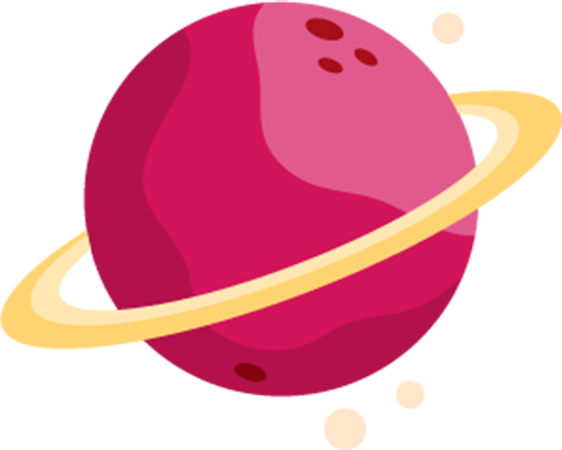
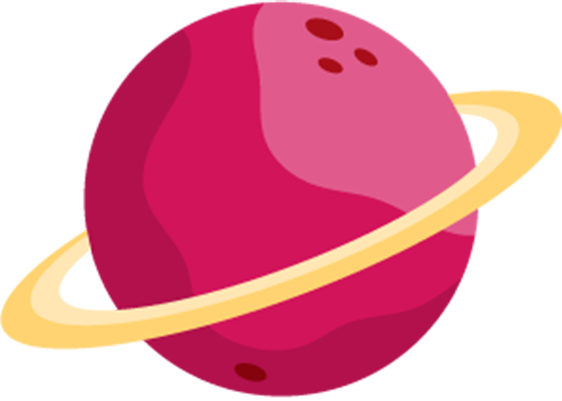
아이케이 행성에 위성 추가 완료. 위성 이미지는 이후에 교체 가능성 있음.

diff --git a/src/App.css b/src/App.css
@@ -206,27 +206,23 @@ ul,ol,li {list-style: none; padding: 0; margin: 0;}
 	display: grid; grid-template-columns: repeat(1, 1fr);
 	gap: 30rem;
 }
-#gr_body .sec2 .planit {position: relative;}
+#gr_body .sec2 .planit {position: relative; padding-bottom: 17rem;}
 #gr_body .sec2 .planit .img {
-	padding-bottom: 17rem;
+	position: relative; width: fit-content;
+}
+#gr_body .sec2 .planit .img img {
 	animation: planitMove 0.7s infinite alternate;
 	position: relative; top: 0;
 }
-#gr_body .sec2 #education .img {margin: 0 0 0 21rem;}
-#gr_body .sec2 #career .img {margin: 0 21rem 0 0;}
-#gr_body .sec2 #career .img img {display: block; margin-left: auto;}
+
 
 @keyframes planitMove {
 	to {top: 10px;}
 }
-
-/* #gr_body .sec2 .planit .img img {transform: scale(1);} */
 #gr_body .sec2 .planit .text_box {
 	max-width: 700px; position: absolute;
 	top: 60%; right: 0;
 }
-
-#gr_body .sec2 #career .text_box {right: unset; left: 50px;}
 
 #gr_body .sec2 .planit .text_box .ComtBox {text-align: left;}
 #gr_body .sec2 .planit .text_box .label {margin-bottom: 2rem;}
@@ -239,6 +235,27 @@ ul,ol,li {list-style: none; padding: 0; margin: 0;}
 	padding: 0.5rem; margin-right: 1rem; color: #fff;
 	font-weight: bold; font-size: 1.3rem;
 }
+
+
+/* education */
+#gr_body .sec2 #education .planit .img {left: 20rem;}
+#gr_body .sec2 #education .planit .img img {width: 38rem;}
+
+/* career */
+#gr_body .sec2 #career .planit .img {left: 60rem;}
+#gr_body .sec2 #career .planit .img img {width: 56.2rem;}
+#gr_body .sec2 .planit .img > a {
+	display: block; width: max(25px, 5rem); height: max(25px, 5rem);
+	border-radius: 50%; position: absolute;
+	background-size: cover;
+	background-repeat: no-repeat;
+	background-position: center;
+}
+#gr_body .sec2 #career .planit .img > #moon-1 {top: 4rem; left: 4rem;}
+#gr_body .sec2 #career .planit .img > #moon-2 {bottom: 5rem; right: 3rem;}
+#gr_body .sec2 #career .planit .img > #moon-3 {top: 0rem; right: 10rem;}
+#gr_body .sec2 #career .text_box {right: unset; left: 8rem;}
+
 
 
 

diff --git a/src/pages/greeting.jsx b/src/pages/greeting.jsx
@@ -62,9 +62,9 @@ function Greeting() {
                         <div className='text_box'>
                            <div className="label">
                               <h3 className='DGMo'>그린컴퓨터아카데미</h3>
-                              <span class="">수료</span>
-                              <span class="">2020.10 ~ 2021.02</span>
-                              <span class="">디지털디자인(웹디자이너, 웹퍼블리셔) 양성과정</span>
+                              <span className="">수료</span>
+                              <span className="">2020.10 ~ 2021.02</span>
+                              <span className="">디지털디자인(웹디자이너, 웹퍼블리셔) 양성과정</span>
                            </div>
 
                            <div className="ComtBox Comt__ty1">
@@ -87,9 +87,9 @@ function Greeting() {
                         <div className='text_box'>
                            <div className="label">
                               <h3 className='DGMo'>아이케이 웹에이전시</h3>
-                              <span class="">인수합병으로 인한 사직</span>
-                              <span class="">2022.03 ~ 2024.07</span>
-                              <span class="">퍼블리싱</span>
+                              <span className="">인수합병으로 인한 사직</span>
+                              <span className="">2022.03 ~ 2024.07</span>
+                              <span className="">퍼블리싱</span>
                            </div>
 
                            <div className="ComtBox Comt__ty1">

diff --git a/src/js/gret.jsx b/src/js/gret.jsx
@@ -3,9 +3,37 @@ import { useEffect, useLayoutEffect  } from "react";
 import { gsap } from "gsap";
 import { ScrollTrigger } from "gsap/ScrollTrigger";
 import { ScrollToPlugin } from "gsap/ScrollToPlugin";
+import { useSelector } from 'react-redux'
 
 
 export function useComtBox() {
+
+   let moonData = useSelector((state)=> state.moonData);
+
+   useEffect(() => {
+      let imgBox = document.querySelector('#career .img');
+
+      if (imgBox) {
+         moonData.forEach((data, index) => {
+            if (['블루웨일브루하우스', '청호불교문화원', '대전문화재단'].includes(data.title)) {
+               // 중복 체크를 위한 고유 ID 설정
+               const uniqueId = `moon-${index+1}`;
+               if (!imgBox.querySelector(`#${uniqueId}`)) {
+                  const moon = document.createElement("a");
+                  moon.href = data.url;
+                  moon.target = "_blank";
+                  moon.rel = "noopener noreferrer";
+                  moon.style.backgroundImage = `url(${data.moonbg})`;
+                  moon.id = uniqueId; // 고유 ID 부여
+                  
+                  imgBox.appendChild(moon);
+               }
+            }
+         });
+      }
+
+   }, []);
+
    useEffect(() => {
       gsap.registerPlugin(ScrollTrigger);
 
@@ -108,8 +136,6 @@ export function useComtBox() {
                },
              }
          );
-   
-      
 
       return () => {
          // ScrollTrigger와 타임라인 정리(중복 내용 예상하고 forEach 작업)

diff --git a/src/store.js b/src/store.js
@@ -10,13 +10,24 @@ let naviTitle = createSlice({
 })
 
 
+// 페이지 전환 애니메이션
 let loadComponent = createSlice({
    name : 'loadComponent',
    initialState : ['stayAni']
 })
 
 
-// i'am...
+
+let moonData = createSlice({
+   name : 'moonData',
+   initialState : [
+      {title : '블루웨일브루하우스', url : 'https://whalebrew.kr/', moonbg :'./img/port_item_01.png'},
+      {title : '청호불교문화원', url : 'http://www.chbuddha.com/', moonbg :'./img/port_item_02.png'},
+      {title : '대전문화재단', url : 'https://seeart.dcaf.or.kr/', moonbg :'./img/moon_logo_dcaf.png'},
+   ]
+})
+
+// main skill...
 let skillSet = createSlice({
    name: 'skillSet',
    initialState : [
@@ -33,6 +44,8 @@ let skillSet = createSlice({
    ]
 })
 
+
+// portpolio item
 let portItem = createSlice({
    name : 'portItem',
    initialState : [
@@ -51,5 +64,6 @@ export default configureStore({
       portItem : portItem.reducer,
       loadComponent : loadComponent.reducer,
       skillSet : skillSet.reducer,
+      moonData : moonData.reducer,
    }
 })
